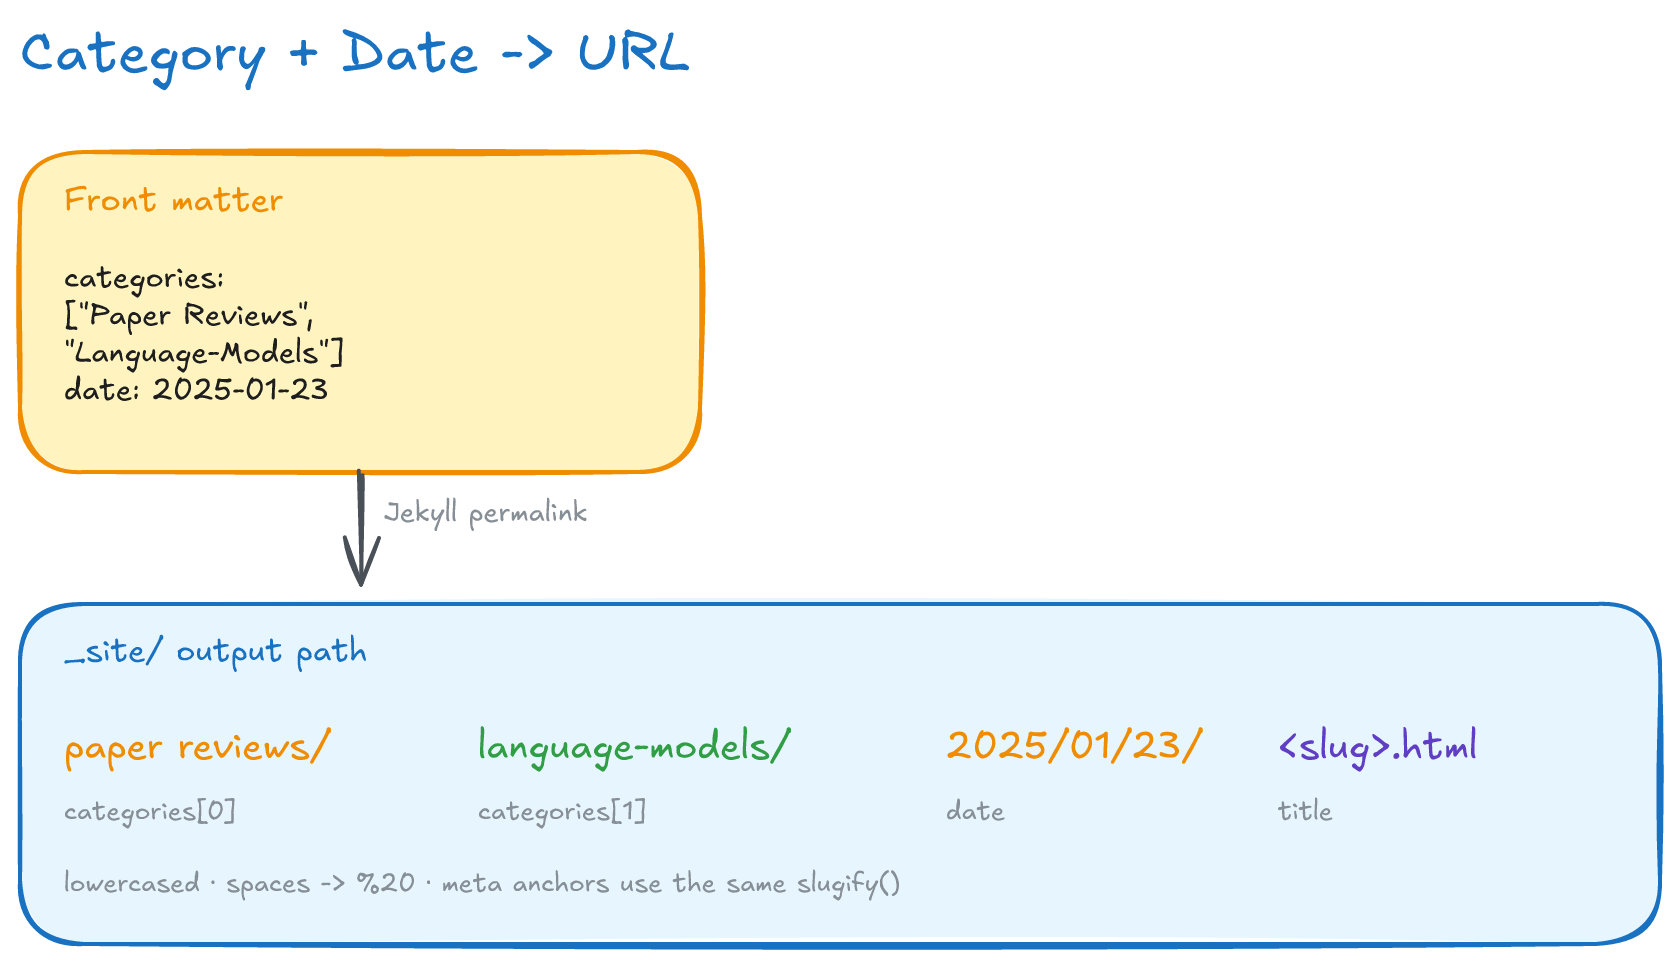
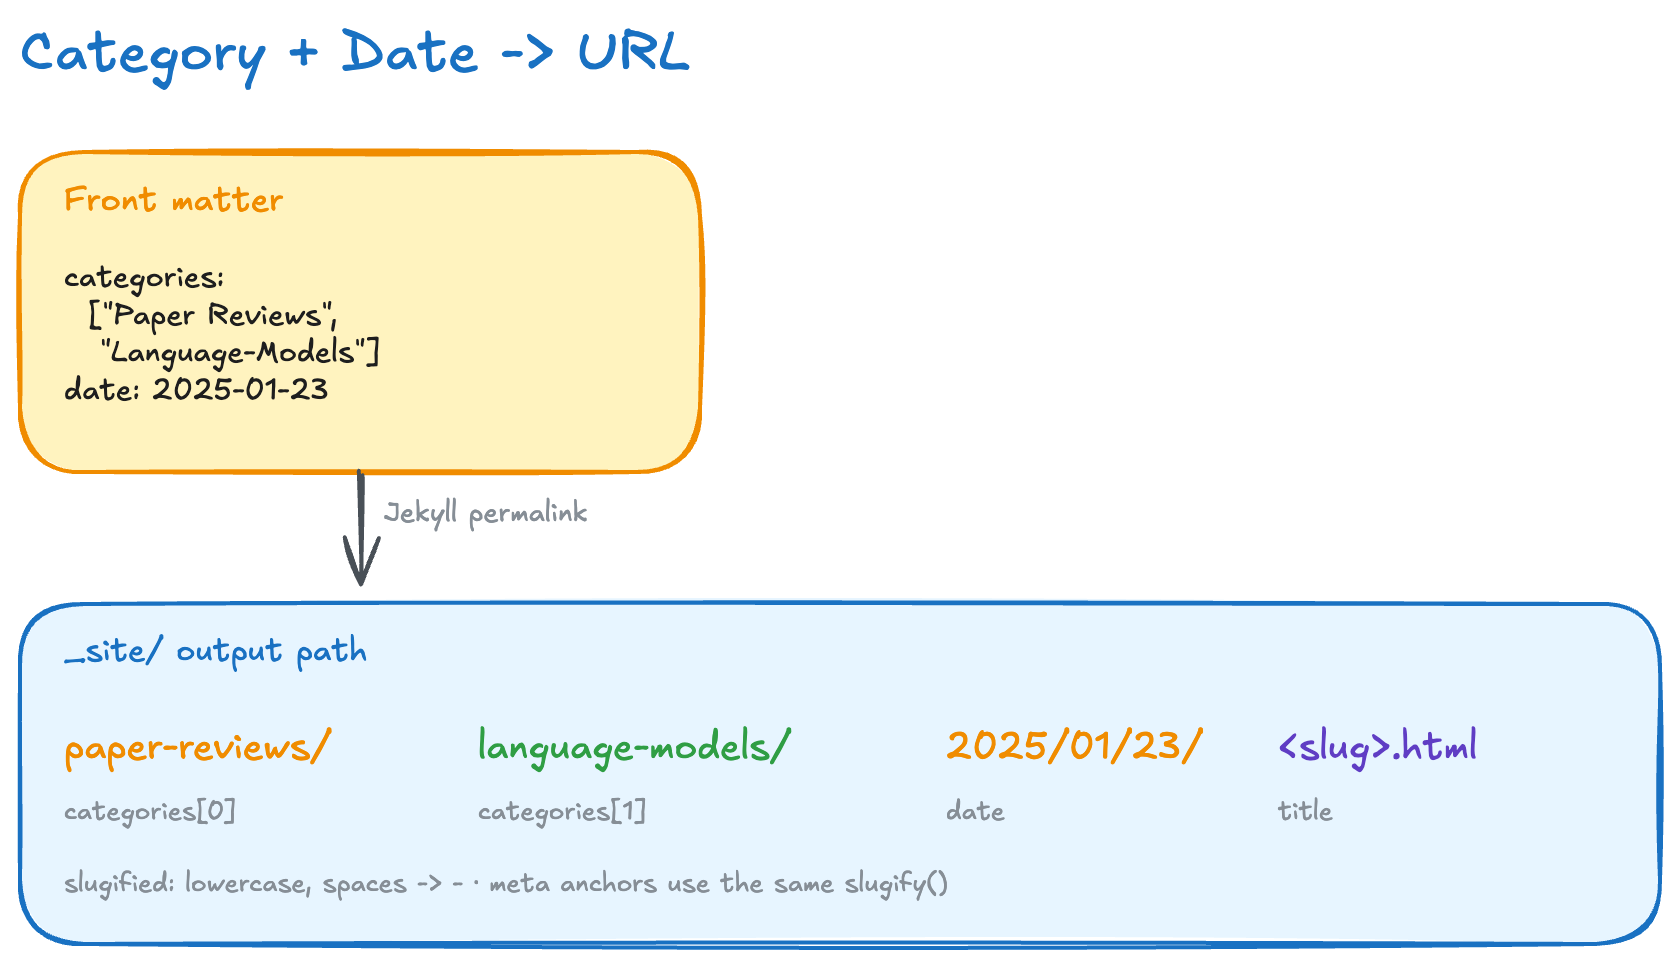
feat(urls): slugify category segments, redirect the old paths
Post URLs used plain `:categories`, which keeps spaces, so every Paper
Reviews post lived at /paper%20reviews/…. The permalink now uses
`:slugified_categories` (/paper-reviews/…), matching the slugify() the
category anchors already use.

The 28 old URLs are indexed and shared, so they keep working:
_plugins/legacy_urls.rb computes each post's URL under the old template
and, when it differs, adds it to `redirect_from`; jekyll-redirect-from
writes a stub there (instant meta refresh, canonical to the new URL),
which Google treats as a permanent redirect. GitHub Pages cannot send 301.

validate-site.sh now fails if a redirect stub points at a page the build
does not contain, or if any sitemap URL still contains an escaped space.

diff --git a/_plugins/legacy_urls.rb b/_plugins/legacy_urls.rb
@@ -1,0 +1,37 @@
+# frozen_string_literal: true
+#
+# Keeps each post's pre-slug URL working.
+#
+# Post URLs were built from plain `:categories`, which keeps spaces, so "Paper
+# Reviews" posts were published, indexed and shared under /paper%20reviews/….
+# The permalink in _config.yml now slugifies them. For every post whose URL
+# changed, this adds the old path to `redirect_from`, and jekyll-redirect-from
+# writes a stub there that redirects to the new URL and names it as canonical.
+module LegacyUrls
+  TEMPLATE = "/:categories/:year/:month/:day/:title:output_ext"
+
+  # `legacy` and `current` are unescaped paths. Returns the post's redirect_from
+  # list with `legacy` added when it differs from `current`; entries the post
+  # declares itself are kept.
+  def self.redirect_from(existing, legacy, current)
+    paths = Array(existing)
+    return paths if legacy == current
+
+    (paths + [legacy]).uniq
+  end
+end
+
+# Guarded so test/ can require this file without Jekyll loaded. :post_read runs
+# before the generators, so jekyll-redirect-from sees the added paths.
+if defined?(Jekyll::Hooks)
+  Jekyll::Hooks.register :site, :post_read do |site|
+    site.posts.docs.each do |post|
+      legacy = Jekyll::URL.new(template: LegacyUrls::TEMPLATE, placeholders: post.url_placeholders).to_s
+      post.data["redirect_from"] = LegacyUrls.redirect_from(
+        post.data["redirect_from"],
+        Jekyll::URL.unescape_path(legacy),
+        Jekyll::URL.unescape_path(post.url)
+      )
+    end
+  end
+end

diff --git a/test/test_legacy_urls.rb b/test/test_legacy_urls.rb
@@ -1,0 +1,30 @@
+# frozen_string_literal: true
+#
+# Unit tests for _plugins/legacy_urls.rb.
+
+require "minitest/autorun"
+require_relative "../_plugins/legacy_urls"
+
+class TestLegacyUrls < Minitest::Test
+  OLD = "/paper reviews/language-models/2023/10/10/mistral-7b.html"
+  NEW = "/paper-reviews/language-models/2023/10/10/mistral-7b.html"
+
+  def test_adds_the_old_path_when_the_url_changed
+    assert_equal [OLD], LegacyUrls.redirect_from(nil, OLD, NEW)
+  end
+
+  # Categories without spaces ("Insights", "Agentic-AI") slugify to themselves;
+  # a redirect there would point a URL at itself.
+  def test_adds_nothing_when_the_url_did_not_change
+    same = "/insights/agentic-ai/2026/04/05/evolution.html"
+    assert_equal [], LegacyUrls.redirect_from(nil, same, same)
+  end
+
+  def test_keeps_redirects_the_post_declares
+    assert_equal ["/old-slug.html", OLD], LegacyUrls.redirect_from("/old-slug.html", OLD, NEW)
+  end
+
+  def test_does_not_duplicate_a_declared_legacy_path
+    assert_equal [OLD], LegacyUrls.redirect_from([OLD], OLD, NEW)
+  end
+end

diff --git a/docs/tech-doc.md b/docs/tech-doc.md
@@ -51,8 +51,8 @@ Pages가 그대로 서빙.**
 | 영역 | 선택 | 한 줄 설명 |
 |------|------|-----------|
 | 정적 사이트 생성기 | Jekyll 4.4 (`Gemfile`, Ruby 3.3+), kramdown(GFM 입력) | 마크다운 글을 HTML로 굽는 본체. `Gemfile`은 Ruby의 의존성 목록(= `package.json`에 해당) |
-| 플러그인(gem) | `jekyll-paginate`, `jekyll-sitemap`, `jekyll-feed` | 각각 목록 페이지 나누기, `sitemap.xml`(검색엔진용 지도), `feed.xml`(RSS 구독) 자동 생성 |
-| 로컬 플러그인(`_plugins/`) | `reading_time.rb`(한·영 읽기시간 계산), `lazy_images.rb`(`<img>`에 lazy-load 부여), `post_description.rb`(글의 검색 설명문 생성), `related_posts.rb`(공유 태그로 관련 글 선정 + 글 끝 이전/다음 링크), `scrollable_tables.rb`(넓은 표를 가로 스크롤 컨테이너로 감싸기), `search_index.rb`(검색 색인용 평문 변환) | 우리가 직접 만든 Ruby 확장. 이것 때문에 GitHub Pages 기본 빌드 대신 Jekyll을 직접 돌린다(§1 아래 참고) |
+| 플러그인(gem) | `jekyll-paginate`, `jekyll-sitemap`, `jekyll-feed`, `jekyll-redirect-from` | 각각 목록 페이지 나누기, `sitemap.xml`(검색엔진용 지도), `feed.xml`(RSS 구독) 자동 생성, 옛 URL 리디렉션 페이지 생성 |
+| 로컬 플러그인(`_plugins/`) | `reading_time.rb`(한·영 읽기시간 계산), `lazy_images.rb`(`<img>`에 lazy-load 부여), `post_description.rb`(글의 검색 설명문 생성), `related_posts.rb`(공유 태그로 관련 글 선정 + 글 끝 이전/다음 링크), `scrollable_tables.rb`(넓은 표를 가로 스크롤 컨테이너로 감싸기), `search_index.rb`(검색 색인용 평문 변환), `legacy_urls.rb`(옛 글 URL을 리디렉션 대상으로 등록) | 우리가 직접 만든 Ruby 확장. 이것 때문에 GitHub Pages 기본 빌드 대신 Jekyll을 직접 돌린다(§1 아래 참고) |
 | 신택스 하이라이팅 | Rouge(서버사이드, kramdown 내장) | 코드 블록에 색을 입히는 작업을 **빌드 때 미리** 한다(브라우저 부담 0). 색 테마는 `_sass/_syntax.scss` |
 | 수식 | kramdown `math_engine: mathjax` → MathJax 3, 포스트별 `use_math`로 로드 | 수학 기호를 브라우저에서 예쁘게 그려 주는 라이브러리. 수식이 있는 글에서만 불러온다 |
 | 스타일 | Sass(`_sass/`), 벤더링된 Bourbon + Neat 그리드 프레임워크 | "벤더링"은 외부 라이브러리를 저장소 안에 복사해 둔 것. `jekyll-sass-converter` 2.x(libsass)로 **고정** — 3.x(dart-sass)는 Bourbon/Neat의 구식 `/` 나눗셈 문법에서 에러 |
@@ -120,11 +120,22 @@ Pages가 그대로 서빙.**
 ```
 categories: ["Paper Reviews", "Language-Models"]  +  date: 2025-01-23
         ↓
-_site/paper reviews/language-models/2025/01/23/<slug>.html
+_site/paper-reviews/language-models/2025/01/23/<slug>.html
 ```
+
+경로 규칙은 `_config.yml`의 `permalink`(`:slugified_categories`)다. 카테고리를 소문자로 바꾸고
+공백을 `-`로 바꾸므로, 앵커에 쓰는 `slugify`와 결과가 같다.
 
 그래서 **이미 게시된 글의 카테고리나 날짜를 바꾸면 URL이 바뀐다** — 외부에서 걸린 링크와
 검색 색인이 깨지므로 함부로 고치지 않는다(§9의 "날짜 드리프트" 참조).
+
+> **옛 URL 리디렉션.** 예전 규칙(`:categories`)은 공백을 그대로 둬 `Paper Reviews` 글이
+> `/paper%20reviews/…`로 게시됐다. `_plugins/legacy_urls.rb`가 옛 규칙으로 계산한 경로가 지금
+> URL과 다르면 그 경로를 글의 `redirect_from`에 넣고, `jekyll-redirect-from`이 그 자리에 새
+> URL로 보내는 페이지(즉시 meta refresh, 새 URL을 canonical로 지정)를 만든다. GitHub Pages는
+> 301을 보낼 수 없어서 쓰는 방식이며, Google은 이를 영구 이동으로 처리한다.
+> `validate-site.sh`가 모든 리디렉션의 목적지가 빌드에 있는지와 사이트맵에 공백 URL이 없는지를
+> 검사한다.
 
 ### 내비게이션은 코드가 아니라 데이터가 만든다
 

diff --git a/README.ko.md b/README.ko.md
@@ -78,6 +78,7 @@ _plugins/          reading_time.rb      (한·영 읽기 시간 계산)
                    related_posts.rb     (page.related, 그리고 이전/다음 글 링크)
                    scrollable_tables.rb (넓은 표를 스크롤 컨테이너로 감싸기)
                    search_index.rb      (search.json용 plain_text 필터)
+                   legacy_urls.rb       (슬러그 이전의 옛 글 URL 리디렉션)
 css/               main.scss(Sass 진입점) · search.css(검색 페이지 전용)
 js/                main.js(테마 토글·코드 복사·목차·메뉴·이미지 확대 등)
                    search.js(검색창 동작)
@@ -145,16 +146,21 @@ RSS `<summary>`에 실리는 문장입니다. 생략하면 `_plugins/post_descri
   `Finetuning`, `Retrieval-Augmented-Generation`, `Agentic-AI`, `Data-Architecture` 등.
   필요하면 자유롭게 추가합니다.
 
-Jekyll은 이 둘과 날짜를 합쳐 출력 경로를 만듭니다.
+Jekyll은 이 둘을 슬러그로 바꾸고(`_config.yml`의 `permalink`) 날짜와 합쳐 출력 경로를
+만듭니다.
 
 ```
 categories: ["Paper Reviews", "Language-Models"] + date: 2025-01-23
         ↓
-_site/paper reviews/language-models/2025/01/23/<slug>.html
+_site/paper-reviews/language-models/2025/01/23/<slug>.html
 ```
 
 그래서 **이미 게시된 글의 카테고리나 날짜를 바꾸면 URL이 바뀝니다.** 외부에서 걸린 링크와
 검색 결과가 깨지므로, 한 번 정하면 그대로 둡니다.
+
+예전 규칙으로 게시된 옛 URL(`/paper%20reviews/…`)은 계속 동작합니다.
+`_plugins/legacy_urls.rb`가 그 경로를 글의 `redirect_from`에 넣고, jekyll-redirect-from이 그
+자리에 새 URL로 보내는 페이지를 만듭니다.
 
 ### 태그: 세부 태그 위에 주제 태그를 하나
 

diff --git a/README.md b/README.md
@@ -80,6 +80,7 @@ _plugins/          reading_time.rb      (KO/EN-aware read time)
                    related_posts.rb     (page.related, and the prev/next links)
                    scrollable_tables.rb (wraps wide tables so they scroll)
                    search_index.rb      (plain_text filter for search.json)
+                   legacy_urls.rb       (redirects pre-slug post URLs)
 css/               main.scss (Sass entry point) · search.css (search page only)
 js/                main.js (theme toggle, code-copy, TOC, menu, image zoom…)
                    search.js (drives the search box)
@@ -150,16 +151,21 @@ Categories are **two levels**:
   `Finetuning`, `Retrieval-Augmented-Generation`, `Agentic-AI`,
   `Data-Architecture`, … (add new ones freely).
 
-Jekyll combines the two with the date to build the output path:
+Jekyll slugifies the two and combines them with the date to build the output
+path (`permalink` in `_config.yml`):
 
 ```
 categories: ["Paper Reviews", "Language-Models"] + date: 2025-01-23
         ↓
-_site/paper reviews/language-models/2025/01/23/<slug>.html
+_site/paper-reviews/language-models/2025/01/23/<slug>.html
 ```
 
 So **changing the categories or date of a published post changes its URL**, which
 breaks inbound links and search results. Set them once and leave them.
+
+Posts first published under the old unslugified form (`/paper%20reviews/…`) keep
+working: `_plugins/legacy_urls.rb` adds that path to each post's `redirect_from`,
+and jekyll-redirect-from writes a stub there that redirects to the new URL.
 
 ### Tags: one topic tag on top of the specific ones
 
